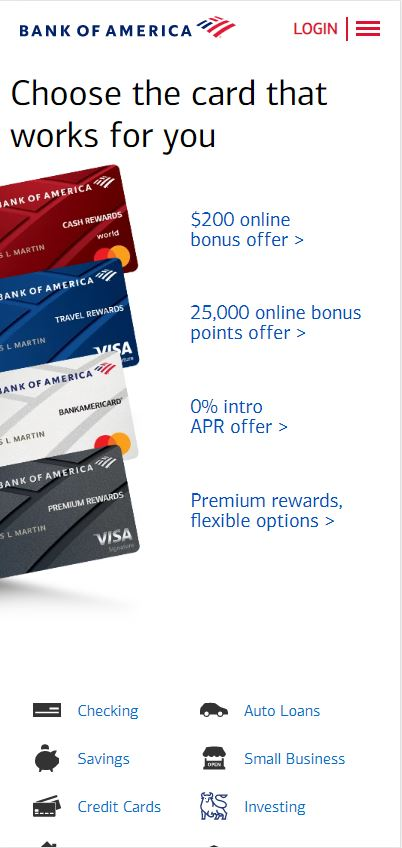
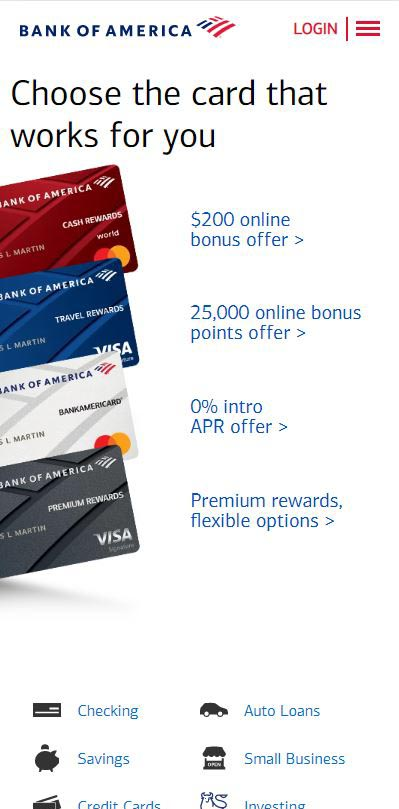
Update

diff --git a/lesson2/design-principles.html b/lesson2/design-principles.html
@@ -21,7 +21,7 @@
     <section class="thirds">
         <h2>Rule of Thirds</h2>
        <h3> Tesla<br><a href="https://www.tesla.com/">https://www.tesla.com/</a></h3><br>
-            <img src="images/teslaweb.JPG" alt="Tesla homepage" class="responsive">
+            <img src="images/tesla.JPG" alt="Tesla homepage" class="responsive">
             <p>Tesla uses thirds beautifully.  Initially, the page opens with three vehicles and narrows in to one visible option. 
          The vehicle fills the top two-thirds of the page leaving the navigation for the bottom thirds.  There are three side-scroll circles.
         There are three clickable options in the lower third of the page.  The number 3 is incorporates the vehicle name.  
@@ -30,7 +30,7 @@
     <section class="repetition">
         <h2>Repetition</h2>
         <h3>Bank of America<br> <a href="https://www.bankofamerica.com/">https://www.bankofamerica.com/</a></h3><br>
-        <img src="images/bankofamericaweb.JPG" alt="Bank of America homepage" class="responsive">
+        <img src="images/bankofamerica.JPG" alt="Bank of America homepage" class="responsive">
         
         <p>Using repetition with color ties this page together well. Red, blue, white and black are immitated in the credit cards.
     The cards form a layered line as they repeat, drawing the eye down but also leading it towards the text to the right.
@@ -42,7 +42,7 @@ The login and the logo both use uppercase.  The menu bars near the login imitate
     <section class="contrast">
         <h2>Contrast</h2>
         <h3>Marvel<br><a href="https://www.marvel.com/">https://www.marvel.com/</a></h3><br>
-        <img src="images/marvelweb.JPG" alt="Marvel homepage" class="responsive">
+        <img src="images/marvel.JPG" alt="Marvel homepage" class="responsive">
        
         <p>Marvel uses the black background to give a stark contrast when color is used. 
           The bright red in Marvel and in the "watch now" tab boldly stand out against the background, screaming, "Look at me!." The white text is very prominent.
